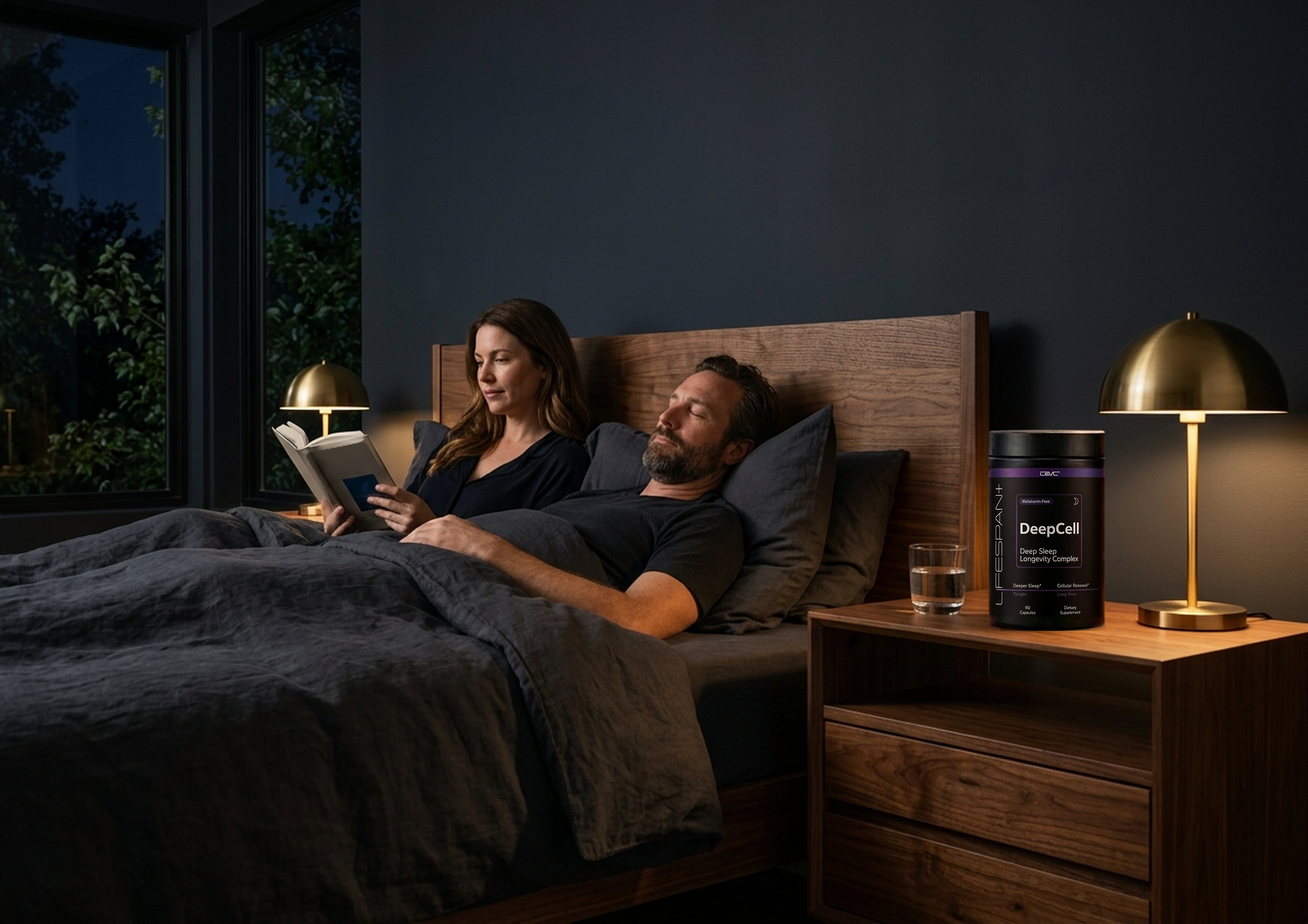
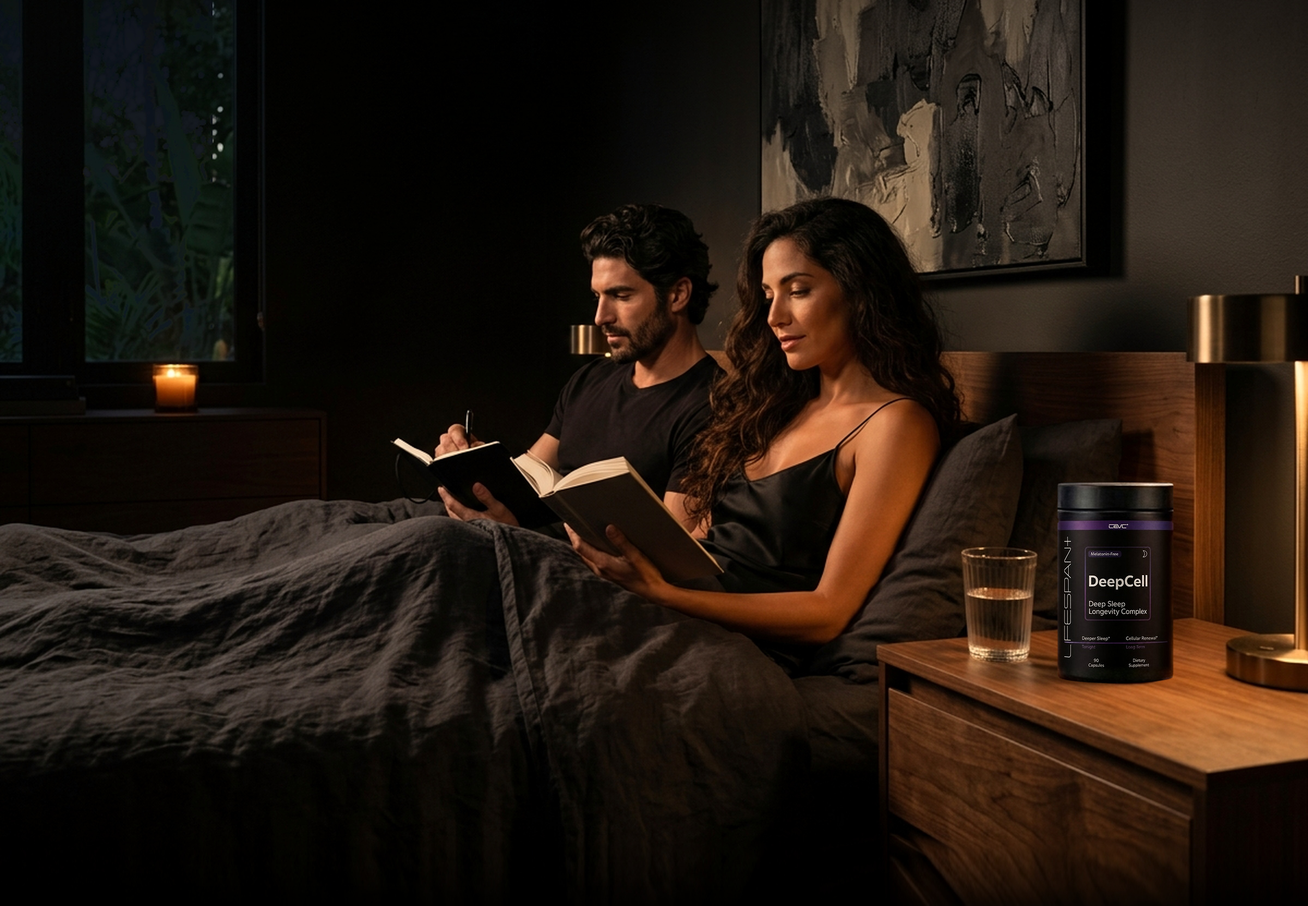
feat(product): update bento-bed hero with photorealistic couple (woman in front) and DeepCell bottle

diff --git a/src/components/product/BentoImages.tsx b/src/components/product/BentoImages.tsx
@@ -40,8 +40,8 @@ export function BentoImages() {
           </div>
 
           {/* Bottom Frosted Glass Panel (Seed formatting) */}
-          <div className="absolute bottom-6 left-0 right-0 md:left-12 md:right-12 md:bottom-12 overflow-x-auto hide-scrollbar snap-x snap-mandatory px-6 md:px-0">
-            <div className="flex md:grid md:grid-cols-3 gap-6 md:gap-8 bg-white/5 backdrop-blur-md border border-white/10 p-6 md:p-8 rounded-2xl w-max md:w-full">
+          <div className="absolute bottom-6 left-0 right-0 md:left-12 md:right-12 md:bottom-8 overflow-x-auto hide-scrollbar snap-x snap-mandatory px-6 md:px-0">
+            <div className="flex md:grid md:grid-cols-3 gap-6 md:gap-8 bg-white/5 backdrop-blur-md border border-white/10 p-6 md:px-8 md:py-6 rounded-2xl w-max md:w-full">
               
               <div className="w-[280px] md:w-auto snap-center flex-shrink-0 space-y-3">
                 <Moon className="w-8 h-8 text-[var(--color-levl-cyan)]" strokeWidth={1.5} />
